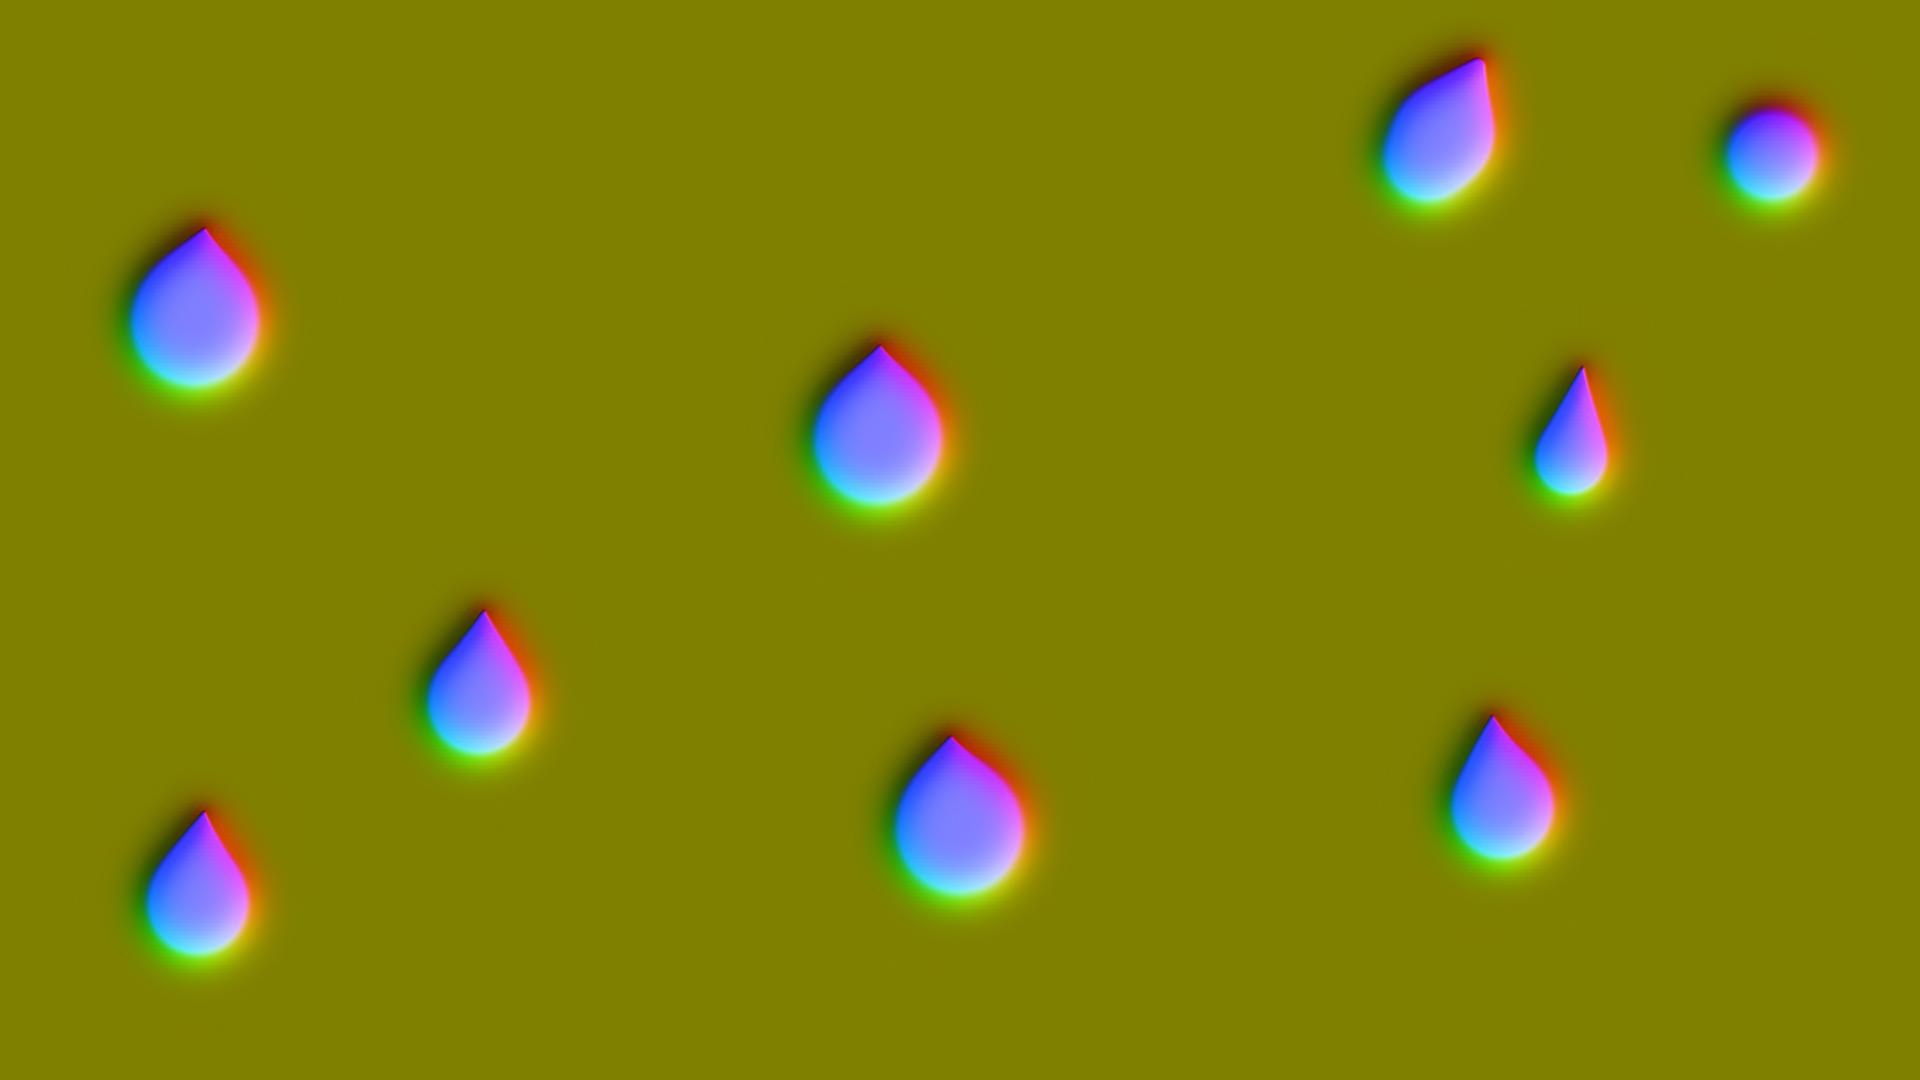
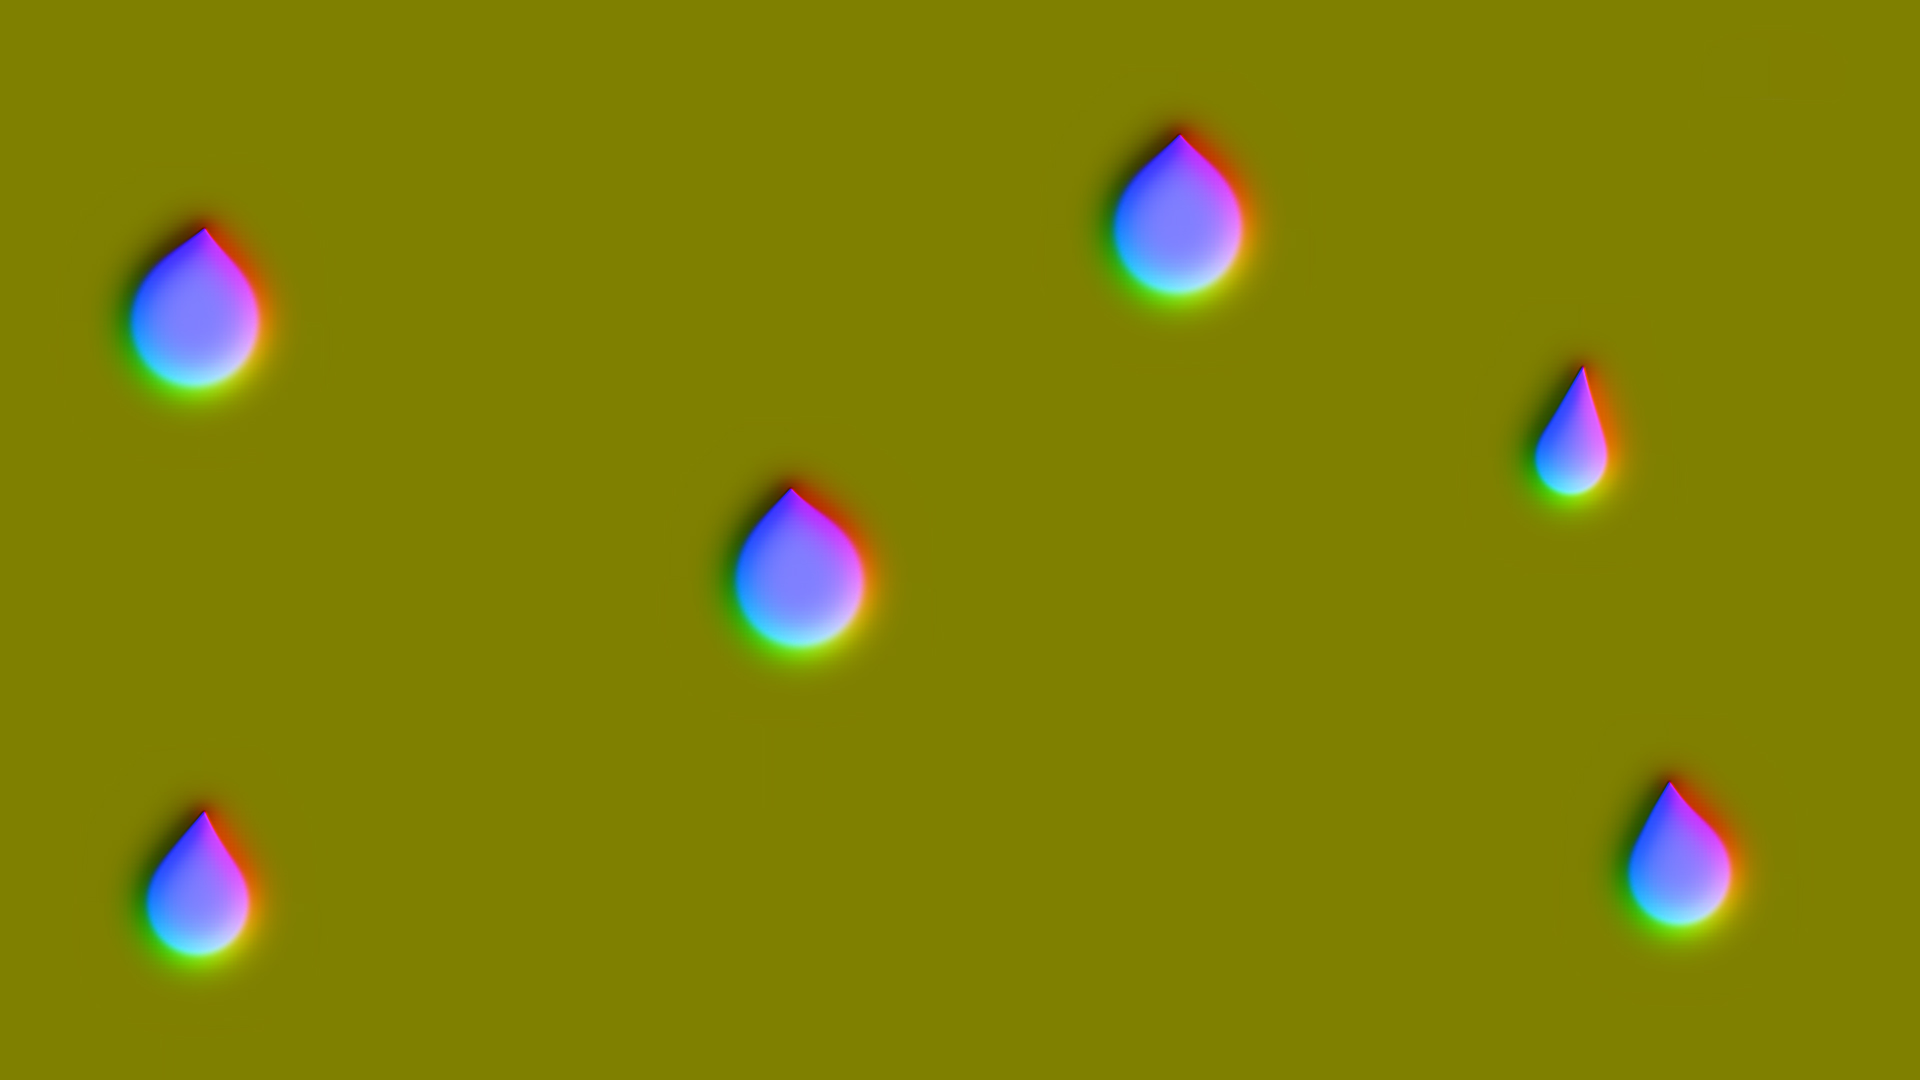
Tweaked water droplet timing

diff --git a/CannonBall/CannonBall/Source/Game/KungFuSheep/KungFuLevelComponent.cpp b/CannonBall/CannonBall/Source/Game/KungFuSheep/KungFuLevelComponent.cpp
@@ -363,10 +363,10 @@ void KungFuLevelComponent::DoWaterDropletScreenFX() {
 
 	m_WaterDropletFXStartTime = g_GlobalTimer.TimeElapsedSeconds();
 	m_WaterSplashFXInst[0].m_Duration = 1.5f;
-	m_WaterSplashFXInst[0].m_InitialDelay = 0.05f;
+	m_WaterSplashFXInst[0].m_InitialDelay = 1.0f;
 
 	m_WaterSplashFXInst[1].m_Duration = 2.0f;
-	m_WaterSplashFXInst[1].m_InitialDelay = 0.0f;
+	m_WaterSplashFXInst[1].m_InitialDelay = 0.75f;
 
 	//m_WaterDropletScreenFXInst.SetEntity( g_pGame->CreateEntity( m_WaterDropletScreenFX.GetEntity() ) );
 
